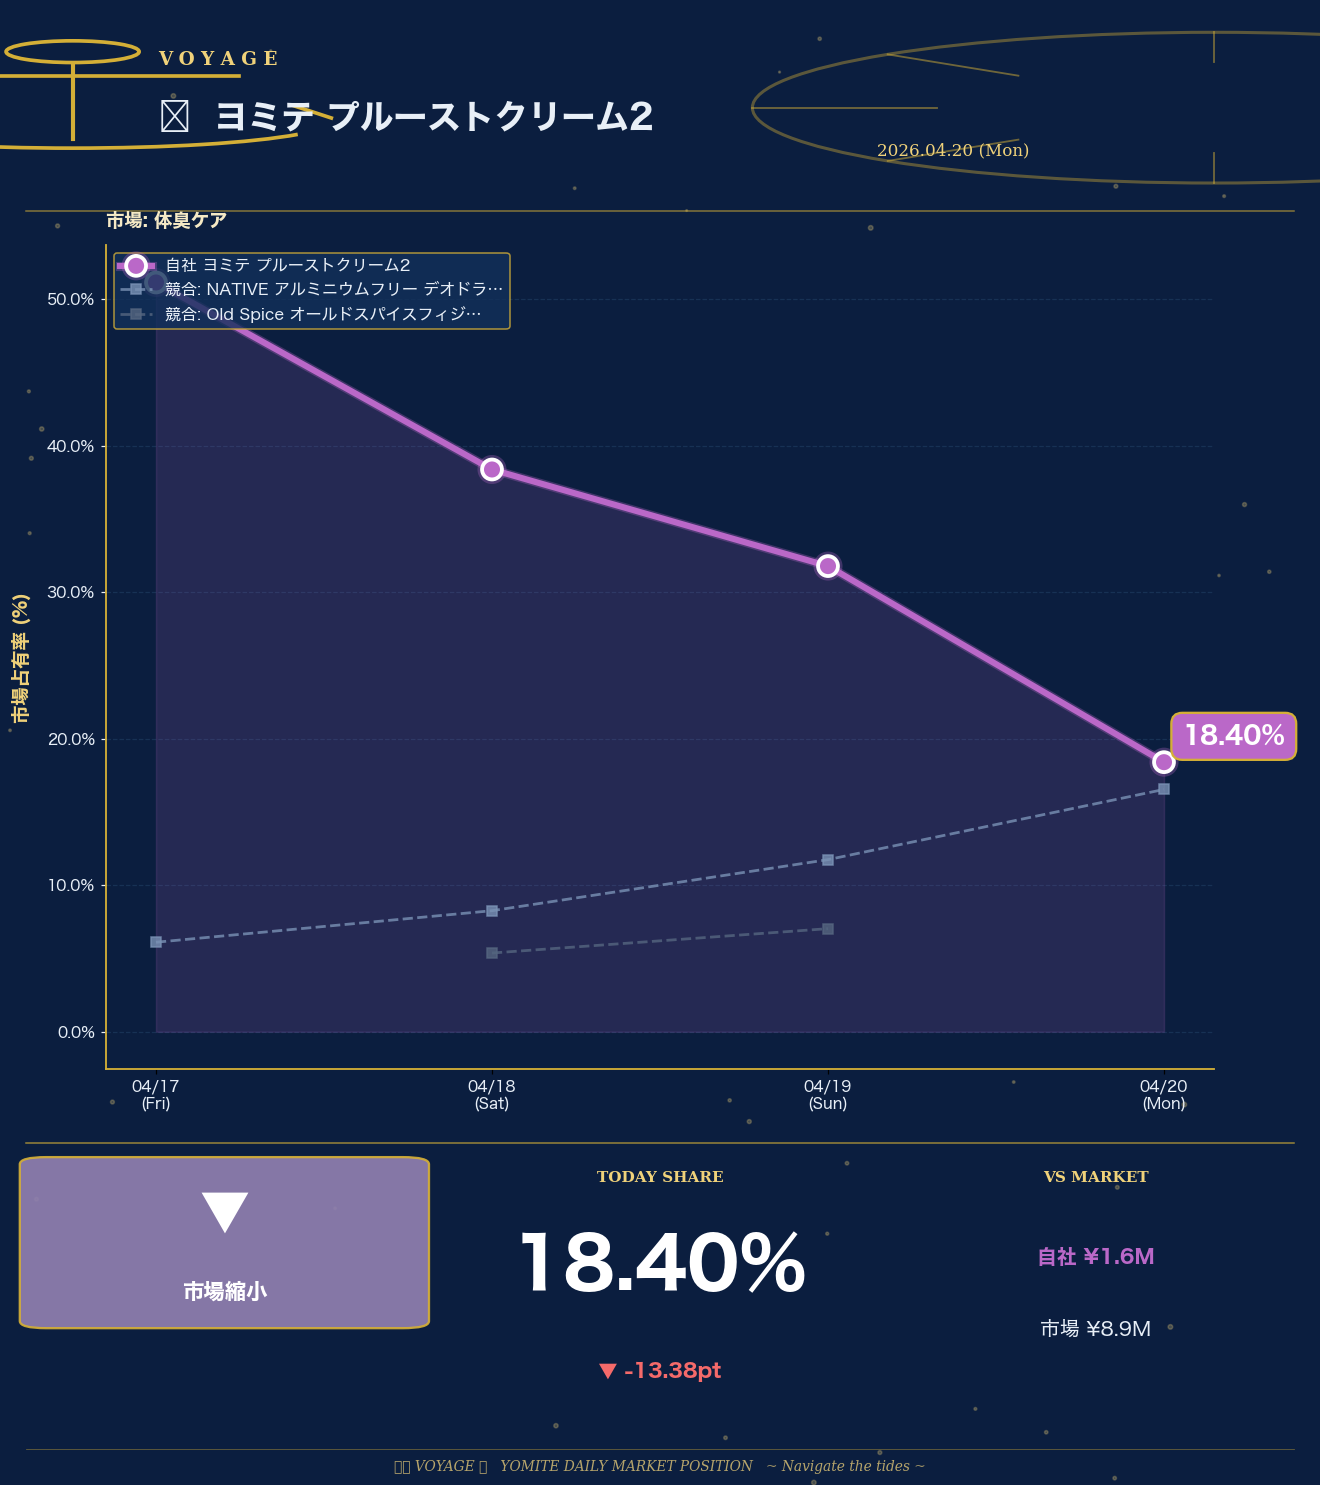
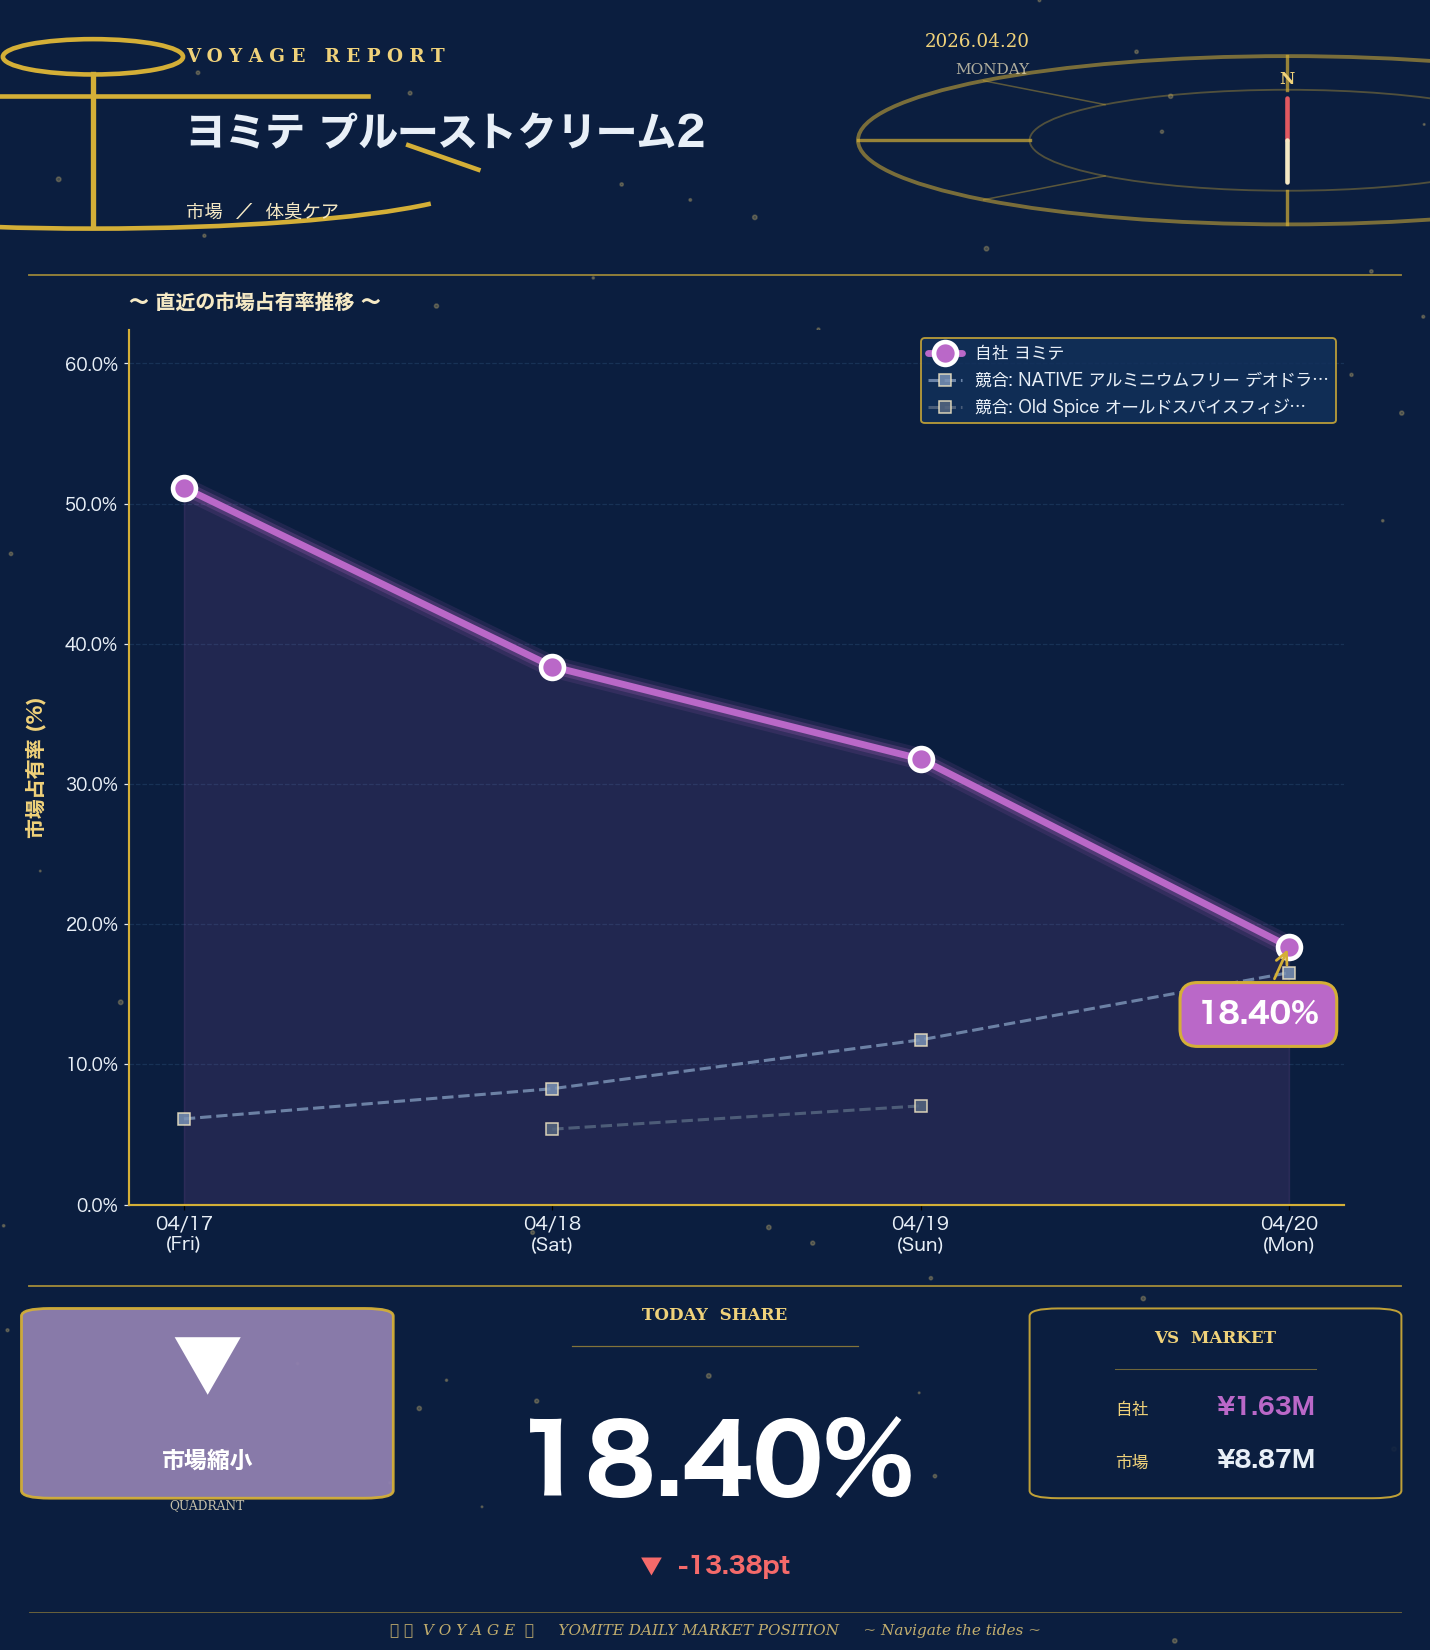
sync: 2026-04-20 yomite daily charts regenerated

diff --git a/.claude/clients/yomite/scripts/generate_charts.py b/.claude/clients/yomite/scripts/generate_charts.py
@@ -174,7 +174,7 @@ def draw_chart(product_cfg, history, out_path):
     ax_bg.scatter(stars_x, stars_y, s=stars_s, c=GOLD_LIGHT, alpha=0.25, zorder=0)
 
     # 上部グラデ帯（ヘッダー）
-    header_h = 0.18
+    header_h = 0.17
     ax_head = fig.add_axes([0,1-header_h,1,header_h], zorder=1)
     ax_head.set_facecolor(BG_MID)
     ax_head.set_xlim(0,1); ax_head.set_ylim(0,1)
@@ -201,7 +201,7 @@ def draw_chart(product_cfg, history, out_path):
     draw_anchor(ax_head, 0.065, 0.5, size=0.35, color=GOLD, lw=3.0)
 
     # コンパス風装飾（右、大きく）
-    compass_x, compass_y, compass_r = 0.92, 0.5, 0.38
+    compass_x, compass_y, compass_r = 0.9, 0.5, 0.3
     circle = Circle((compass_x, compass_y), compass_r, fill=False, edgecolor=GOLD, lw=2.5, alpha=0.55, transform=ax_head.transAxes)
     ax_head.add_patch(circle)
     circle2 = Circle((compass_x, compass_y), compass_r*0.6, fill=False, edgecolor=GOLD, lw=1.2, alpha=0.35, transform=ax_head.transAxes)
@@ -219,15 +219,17 @@ def draw_chart(product_cfg, history, out_path):
     ax_head.text(compass_x, compass_y + compass_r*0.72, "N", fontsize=11, color=GOLD_LIGHT, ha="center", va="center", weight="bold", family="serif", transform=ax_head.transAxes)
 
     # タイトル
-    ax_head.text(0.13, 0.74, "V O Y A G E   R E P O R T", fontsize=13, color=GOLD_LIGHT, weight="bold", family="serif", transform=ax_head.transAxes)
-    ax_head.text(0.13, 0.44, display_name, fontsize=28, color=INK, weight="bold", transform=ax_head.transAxes)
-    ax_head.text(0.13, 0.18, f"市場  ／  {market_label}", fontsize=12, color=CREAM, transform=ax_head.transAxes, style="italic")
+    ax_head.text(0.13, 0.78, "V O Y A G E   R E P O R T", fontsize=12, color=GOLD_LIGHT, weight="bold", family="serif", transform=ax_head.transAxes)
+    ax_head.text(0.13, 0.48, display_name, fontsize=26, color=INK, weight="bold", transform=ax_head.transAxes)
+    # 市場ラベルはコンパスに被らないよう長さ制限
+    mkt_label_short = market_label if len(market_label) <= 22 else market_label[:22] + "…"
+    ax_head.text(0.13, 0.22, f"市場  ／  {mkt_label_short}", fontsize=12, color=CREAM, transform=ax_head.transAxes, style="italic")
 
     # 右：今日日付
     today_str = datetime.strptime(dates_sorted[-1], "%Y-%m-%d").strftime("%Y.%m.%d")
     day_str = datetime.strptime(dates_sorted[-1], "%Y-%m-%d").strftime("%A").upper()
-    ax_head.text(0.8, 0.82, today_str, fontsize=12, color=GOLD_LIGHT, ha="right", va="center", family="serif", transform=ax_head.transAxes)
-    ax_head.text(0.8, 0.72, day_str, fontsize=10, color=CREAM, ha="right", va="center", family="serif", alpha=0.7, transform=ax_head.transAxes)
+    ax_head.text(0.72, 0.85, today_str, fontsize=12, color=GOLD_LIGHT, ha="right", va="center", family="serif", transform=ax_head.transAxes)
+    ax_head.text(0.72, 0.75, day_str, fontsize=10, color=CREAM, ha="right", va="center", family="serif", alpha=0.7, transform=ax_head.transAxes)
 
     # 下装飾ライン（金）
     ax_head.plot([0.02, 0.98], [0.02, 0.02], color=GOLD, lw=1.2, alpha=0.7, transform=ax_head.transAxes)
@@ -268,98 +270,123 @@ def draw_chart(product_cfg, history, out_path):
 
     # 軸
     ax.set_xticks(x_pos)
-    ax.set_xticklabels([d.strftime("%m/%d\n(%a)") for d in dates_dt], fontsize=10, color=INK)
-    ax.tick_params(axis="y", colors=INK, labelsize=10)
-    ax.set_ylabel("市場占有率 (%)", fontsize=12, color=GOLD_LIGHT, fontweight="bold", labelpad=10)
+    ax.set_xticklabels([d.strftime("%m/%d\n(%a)") for d in dates_dt], fontsize=12, color=INK)
+    ax.tick_params(axis="y", colors=INK, labelsize=11)
+    ax.set_ylabel("市場占有率 (%)", fontsize=13, color=GOLD_LIGHT, fontweight="bold", labelpad=12)
     ax.yaxis.set_major_formatter(plt.FuncFormatter(lambda x, _: f"{x:.1f}%"))
 
+    # Y軸範囲をデータに応じて調整
+    all_y = own_y[:]
+    for cname in top_comps:
+        all_y += [v for _,v in comp_series.get(cname, [])]
+    ymax = max(all_y) if all_y else 1
+    ax.set_ylim(0, ymax * 1.22)
+
     # グリッド
-    ax.grid(True, axis="y", color=GRID, linestyle="--", alpha=0.5, zorder=1)
+    ax.grid(True, axis="y", color=GRID, linestyle="--", alpha=0.55, zorder=1)
     ax.set_axisbelow(True)
 
     # 枠
     for spine in ax.spines.values():
         spine.set_color(GOLD)
-        spine.set_linewidth(1.2)
+        spine.set_linewidth(1.4)
     ax.spines["top"].set_visible(False)
     ax.spines["right"].set_visible(False)
 
-    # タイトル（市場ラベル）
-    ax.set_title(f"市場: {market_label}", fontsize=12, color=CREAM, pad=12, weight="bold", loc="left")
+    # タイトル（セクションラベル）
+    ax.set_title("〜 直近の市場占有率推移 〜", fontsize=13, color=CREAM, pad=14, weight="bold", loc="left", style="italic")
 
-    # 凡例
-    leg = ax.legend(loc="upper left", fontsize=10.5, frameon=True, facecolor=BG_MID, edgecolor=GOLD, labelcolor=INK)
-    leg.get_frame().set_alpha(0.8)
+    # 凡例（右上）
+    leg = ax.legend(loc="upper right", fontsize=11, frameon=True, facecolor=BG_MID, edgecolor=GOLD, labelcolor=INK)
+    leg.get_frame().set_alpha(0.85)
+    leg.get_frame().set_linewidth(1.2)
 
     # 最新点にシェア%バッジ
     last_y = own_y[-1]
+    # 直前の値より上がってるか下がってるかで位置調整
+    offset_y = 40 if (len(own_y) < 2 or own_y[-1] >= own_y[-2]) else -50
+    ha = "left" if offset_y > 0 else "center"
+    offset_x = -20 if offset_y > 0 else -20
     ax.annotate(f"{last_y:.2f}%",
                 xy=(x_pos[-1], last_y),
-                xytext=(12, 12), textcoords="offset points",
-                fontsize=16, color="white", weight="bold",
-                bbox=dict(boxstyle="round,pad=0.45", facecolor=color, edgecolor=GOLD, lw=1.5),
+                xytext=(offset_x, offset_y), textcoords="offset points",
+                fontsize=19, color="white", weight="bold", ha="center",
+                bbox=dict(boxstyle="round,pad=0.6", facecolor=color, edgecolor=GOLD, lw=2),
+                arrowprops=dict(arrowstyle="->", color=GOLD, lw=1.8),
                 zorder=10)
 
     # === 下部パネル（ステータスバー） ===
-    status_h = 0.24
+    status_h = 0.23
     ax_status = fig.add_axes([0, 0, 1, status_h], zorder=2)
     ax_status.set_facecolor(BG_MID)
     ax_status.set_xlim(0,1); ax_status.set_ylim(0,1)
     ax_status.axis("off")
 
     # 区切り金ライン上部
-    ax_status.plot([0.02, 0.98], [0.96, 0.96], color=GOLD, lw=1, alpha=0.7, transform=ax_status.transAxes)
+    ax_status.plot([0.02, 0.98], [0.96, 0.96], color=GOLD, lw=1.2, alpha=0.75, transform=ax_status.transAxes)
 
     # 左: 象限バッジ
-    ax_status.add_patch(FancyBboxPatch((0.035, 0.46), 0.27, 0.44, boxstyle="round,pad=0.02",
-                                       facecolor=q_color, edgecolor=GOLD, lw=1.5, alpha=0.92,
+    ax_status.add_patch(FancyBboxPatch((0.035, 0.42), 0.22, 0.46, boxstyle="round,pad=0.02",
+                                       facecolor=q_color, edgecolor=GOLD, lw=1.8, alpha=0.95,
                                        transform=ax_status.transAxes))
-    ax_status.text(0.17, 0.76, q_icon, fontsize=34, ha="center", va="center", color="white",
+    ax_status.text(0.145, 0.74, q_icon, fontsize=48, ha="center", va="center", color="white",
                    weight="bold", transform=ax_status.transAxes)
-    ax_status.text(0.17, 0.54, q_label, fontsize=14, color="white", ha="center", va="center",
+    ax_status.text(0.145, 0.5, q_label, fontsize=15, color="white", ha="center", va="center",
                    weight="bold", transform=ax_status.transAxes)
+    ax_status.text(0.145, 0.38, "QUADRANT", fontsize=8, color=CREAM, ha="center", va="center",
+                   family="serif", alpha=0.8, transform=ax_status.transAxes)
 
     # 中央: 今日のシェア（特大）
     delta_txt = ""
     if prev_share is not None:
         delta = last_y - prev_share
         if delta > 0.01:
-            delta_txt = f"▲ +{delta:.2f}pt"
+            delta_txt = f"▲  +{delta:.2f}pt"
             delta_color = "#3AF58B"
         elif delta < -0.01:
-            delta_txt = f"▼ {delta:.2f}pt"
+            delta_txt = f"▼  {delta:.2f}pt"
             delta_color = "#F56A6A"
         else:
-            delta_txt = "→ 変化なし"
+            delta_txt = "→  変化なし"
             delta_color = GOLD_LIGHT
     else:
         delta_color = GOLD_LIGHT
 
-    ax_status.text(0.5, 0.85, "TODAY SHARE", fontsize=10, color=GOLD_LIGHT, ha="center", weight="bold",
+    ax_status.text(0.5, 0.87, "TODAY  SHARE", fontsize=11, color=GOLD_LIGHT, ha="center", weight="bold",
                    family="serif", transform=ax_status.transAxes)
-    ax_status.text(0.5, 0.55, f"{last_y:.2f}%", fontsize=46, color="white", ha="center",
+    # 金線下
+    ax_status.plot([0.4, 0.6], [0.8, 0.8], color=GOLD, lw=0.8, alpha=0.6, transform=ax_status.transAxes)
+    ax_status.text(0.5, 0.48, f"{last_y:.2f}%", fontsize=62, color="white", ha="center", va="center",
                    weight="bold", transform=ax_status.transAxes)
     if delta_txt:
-        ax_status.text(0.5, 0.3, delta_txt, fontsize=13, color=delta_color, ha="center",
+        ax_status.text(0.5, 0.2, delta_txt, fontsize=15, color=delta_color, ha="center",
                        weight="bold", transform=ax_status.transAxes)
 
     # 右: 自社/市場金額
     def fmt_yen(v):
-        if v >= 10**6: return f"¥{v/10**6:.1f}M"
+        if v >= 10**6: return f"¥{v/10**6:.2f}M"
         if v >= 10**3: return f"¥{v/10**3:.0f}K"
         return f"¥{v:.0f}"
 
-    ax_status.text(0.83, 0.85, "VS MARKET", fontsize=10, color=GOLD_LIGHT, ha="center", weight="bold",
+    ax_status.add_patch(FancyBboxPatch((0.74, 0.42), 0.22, 0.46, boxstyle="round,pad=0.02",
+                                       facecolor=BG_DARK, edgecolor=GOLD, lw=1.3, alpha=0.9,
+                                       transform=ax_status.transAxes))
+    ax_status.text(0.85, 0.81, "VS  MARKET", fontsize=11, color=GOLD_LIGHT, ha="center", weight="bold",
                    family="serif", transform=ax_status.transAxes)
-    ax_status.text(0.83, 0.62, f"自社 {fmt_yen(today_own)}", fontsize=13, color=color, ha="center",
+    ax_status.plot([0.78, 0.92], [0.74, 0.74], color=GOLD, lw=0.7, alpha=0.5, transform=ax_status.transAxes)
+    # 自社
+    ax_status.text(0.78, 0.62, "自社", fontsize=11, color=GOLD_LIGHT, ha="left", transform=ax_status.transAxes)
+    ax_status.text(0.92, 0.62, fmt_yen(today_own), fontsize=15, color=color, ha="right",
                    weight="bold", transform=ax_status.transAxes)
-    ax_status.text(0.83, 0.42, f"市場 {fmt_yen(today_market)}", fontsize=13, color=INK, ha="center",
-                   transform=ax_status.transAxes)
+    # 市場
+    ax_status.text(0.78, 0.48, "市場", fontsize=11, color=GOLD_LIGHT, ha="left", transform=ax_status.transAxes)
+    ax_status.text(0.92, 0.48, fmt_yen(today_market), fontsize=15, color=INK, ha="right",
+                   weight="bold", transform=ax_status.transAxes)
 
     # 下段装飾バー + Brand
-    ax_status.plot([0.02, 0.98], [0.1, 0.1], color=GOLD, lw=0.5, alpha=0.5, transform=ax_status.transAxes)
-    ax_status.text(0.5, 0.04, "一進 VOYAGE 号   YOMITE DAILY MARKET POSITION   ~ Navigate the tides ~",
-                   fontsize=9, color=GOLD_LIGHT, ha="center", alpha=0.75, family="serif",
+    ax_status.plot([0.02, 0.98], [0.1, 0.1], color=GOLD, lw=0.6, alpha=0.5, transform=ax_status.transAxes)
+    ax_status.text(0.5, 0.04, "一 進  V O Y A G E  号     YOMITE DAILY MARKET POSITION     ~ Navigate the tides ~",
+                   fontsize=10, color=GOLD_LIGHT, ha="center", alpha=0.8, family="serif",
                    style="italic", transform=ax_status.transAxes)
 
     # 保存
